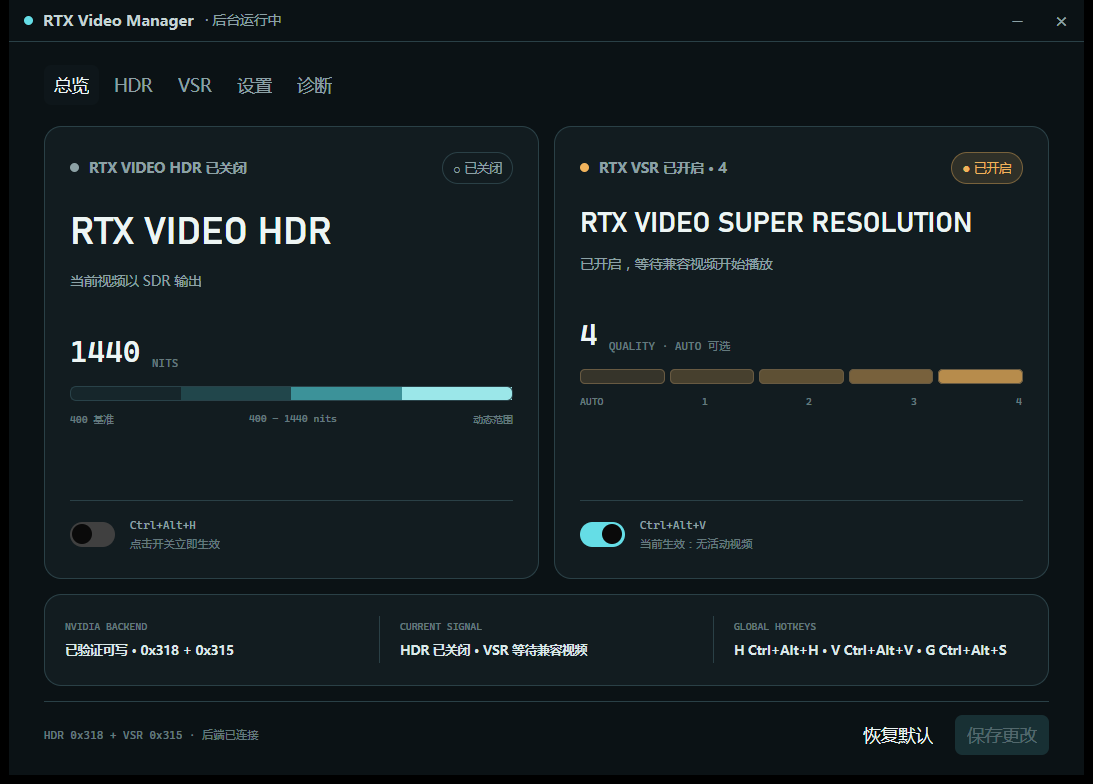
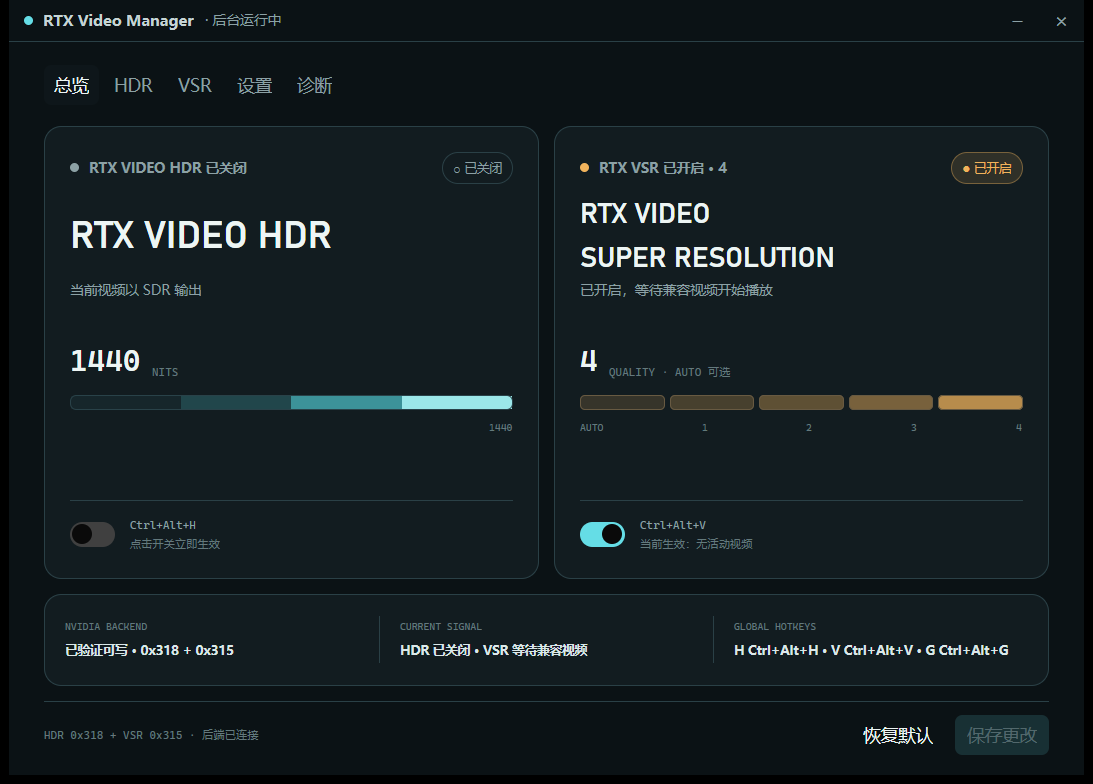
[skip ci] Record final layout verification

Changed region(s): [[0.5288, 0.2449, 0.9332, 0.551], [0.0622, 0.4286, 0.4666, 0.551], [0.0622, 0.2755, 0.3111, 0.398]]

diff --git a/docs/TODO.md b/docs/TODO.md
@@ -9,6 +9,10 @@
   visual density and hierarchy are still weaker than `prototype/rtx-video-manager.html`.
   The overview now uses side-by-side HDR/VSR cards with a status rail, and the
   HDR/VSR pages have matching right-side information cards.
+- The requested final spacing pass is implemented: the overview uses a two-line
+  `RTX VIDEO` / `SUPER RESOLUTION` title, both feature legends share one baseline, the
+  HDR spectrum keeps only the driver-derived upper endpoint, the HDR page shows only its
+  own shortcut, and both compact information cards no longer clip their lower text.
 - The runnable dual-function prototype is `prototype/rtx-video-manager.html`. It has
   been rendered and visually reviewed at 100% and 125% preview scales.
 - GitHub Actions run `40357825705` is green for commit `9d8ebc2`; strict
@@ -40,6 +44,22 @@
   confirmed that both cards fit, the HDR spectrum and VSR ladder are visible, the
   summary rail is not clipped, and the footer remains fixed. The checked-in preview is
   `prototype/gpui-overview-125.png`.
+- GitHub Actions run `40466747582` is green for commit `397e674`; strict formatting,
+  Clippy, all tests, both Release builds, packaging, and upload passed.
+- Final artifact ZIP SHA-256 is
[2 lines of base64/hex data omitted]
+  (656,384 bytes); console SHA-256 is
[1 lines of base64/hex data omitted]
+  (17,798,144 bytes).
+- Off-screen 125% captures of the final artifact confirmed: the VSR title is split as
+  `RTX VIDEO` / `SUPER RESOLUTION`; overview legends align; HDR labels show only the
+  `1440` upper endpoint; HDR shows only `Ctrl+Alt+H`; VSR's right card has no clipped
+  note; the quality panel fills the remaining height; and diagnostics stays inside its
+  rounded panel. Checked-in previews are `prototype/gpui-overview-125.png`,
+  `prototype/gpui-hdr-125.png`, and `prototype/gpui-vsr-125.png`.
+- The temporary verification host updated the preserved `RtxHdrSwitch` startup value;
+  it was restored to the pre-test installed executable path after capture.
 - The new host idled at 5.50 MiB private memory. The off-screen GPUI console used
   approximately 133 MiB, above the 120 MiB target; reducing it is a follow-up
   optimization rather than a blocker for visual acceptance.
@@ -171,6 +191,6 @@
 
 ## Next Action
 
-Continue background acceptance on the green `f25481b` artifact: review HDR/VSR detail
-layout without activating the window, then exercise three hotkeys, both toggles, and
-VSR active-state changes.
+The requested HDR/VSR spacing work is complete on the 125% reference display. Continue
+the remaining manual acceptance checks at 100% and 150%, then exercise the three
+hotkeys, both toggles, VSR active-state changes, and the clipboard diagnostic action.
